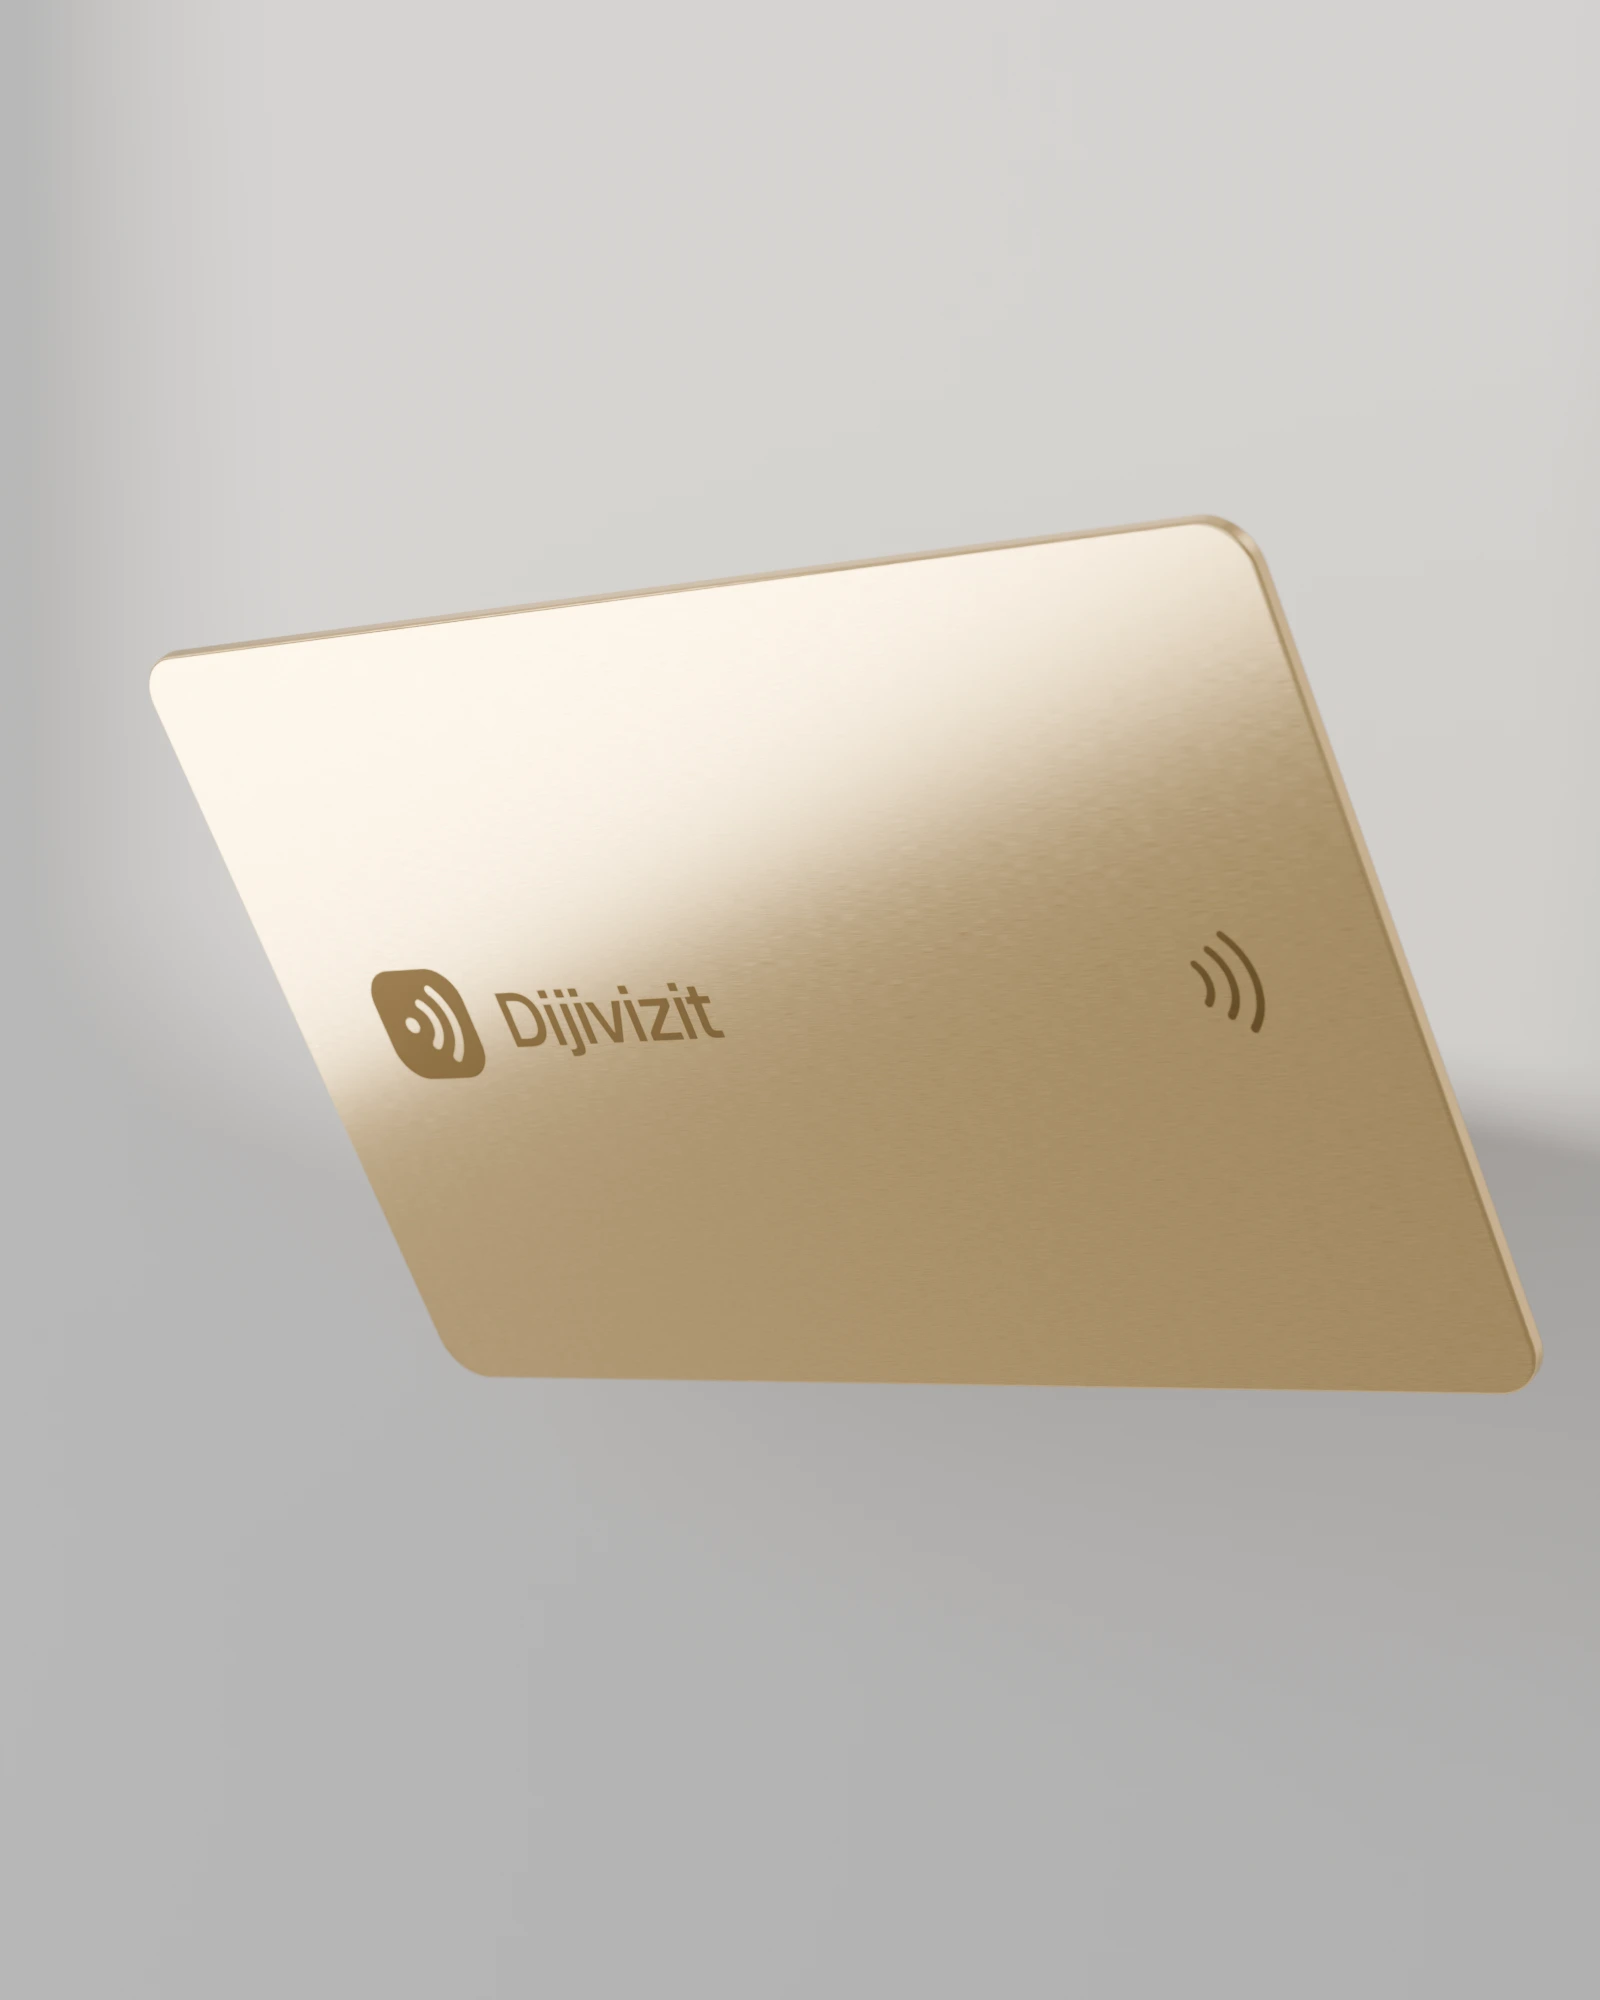
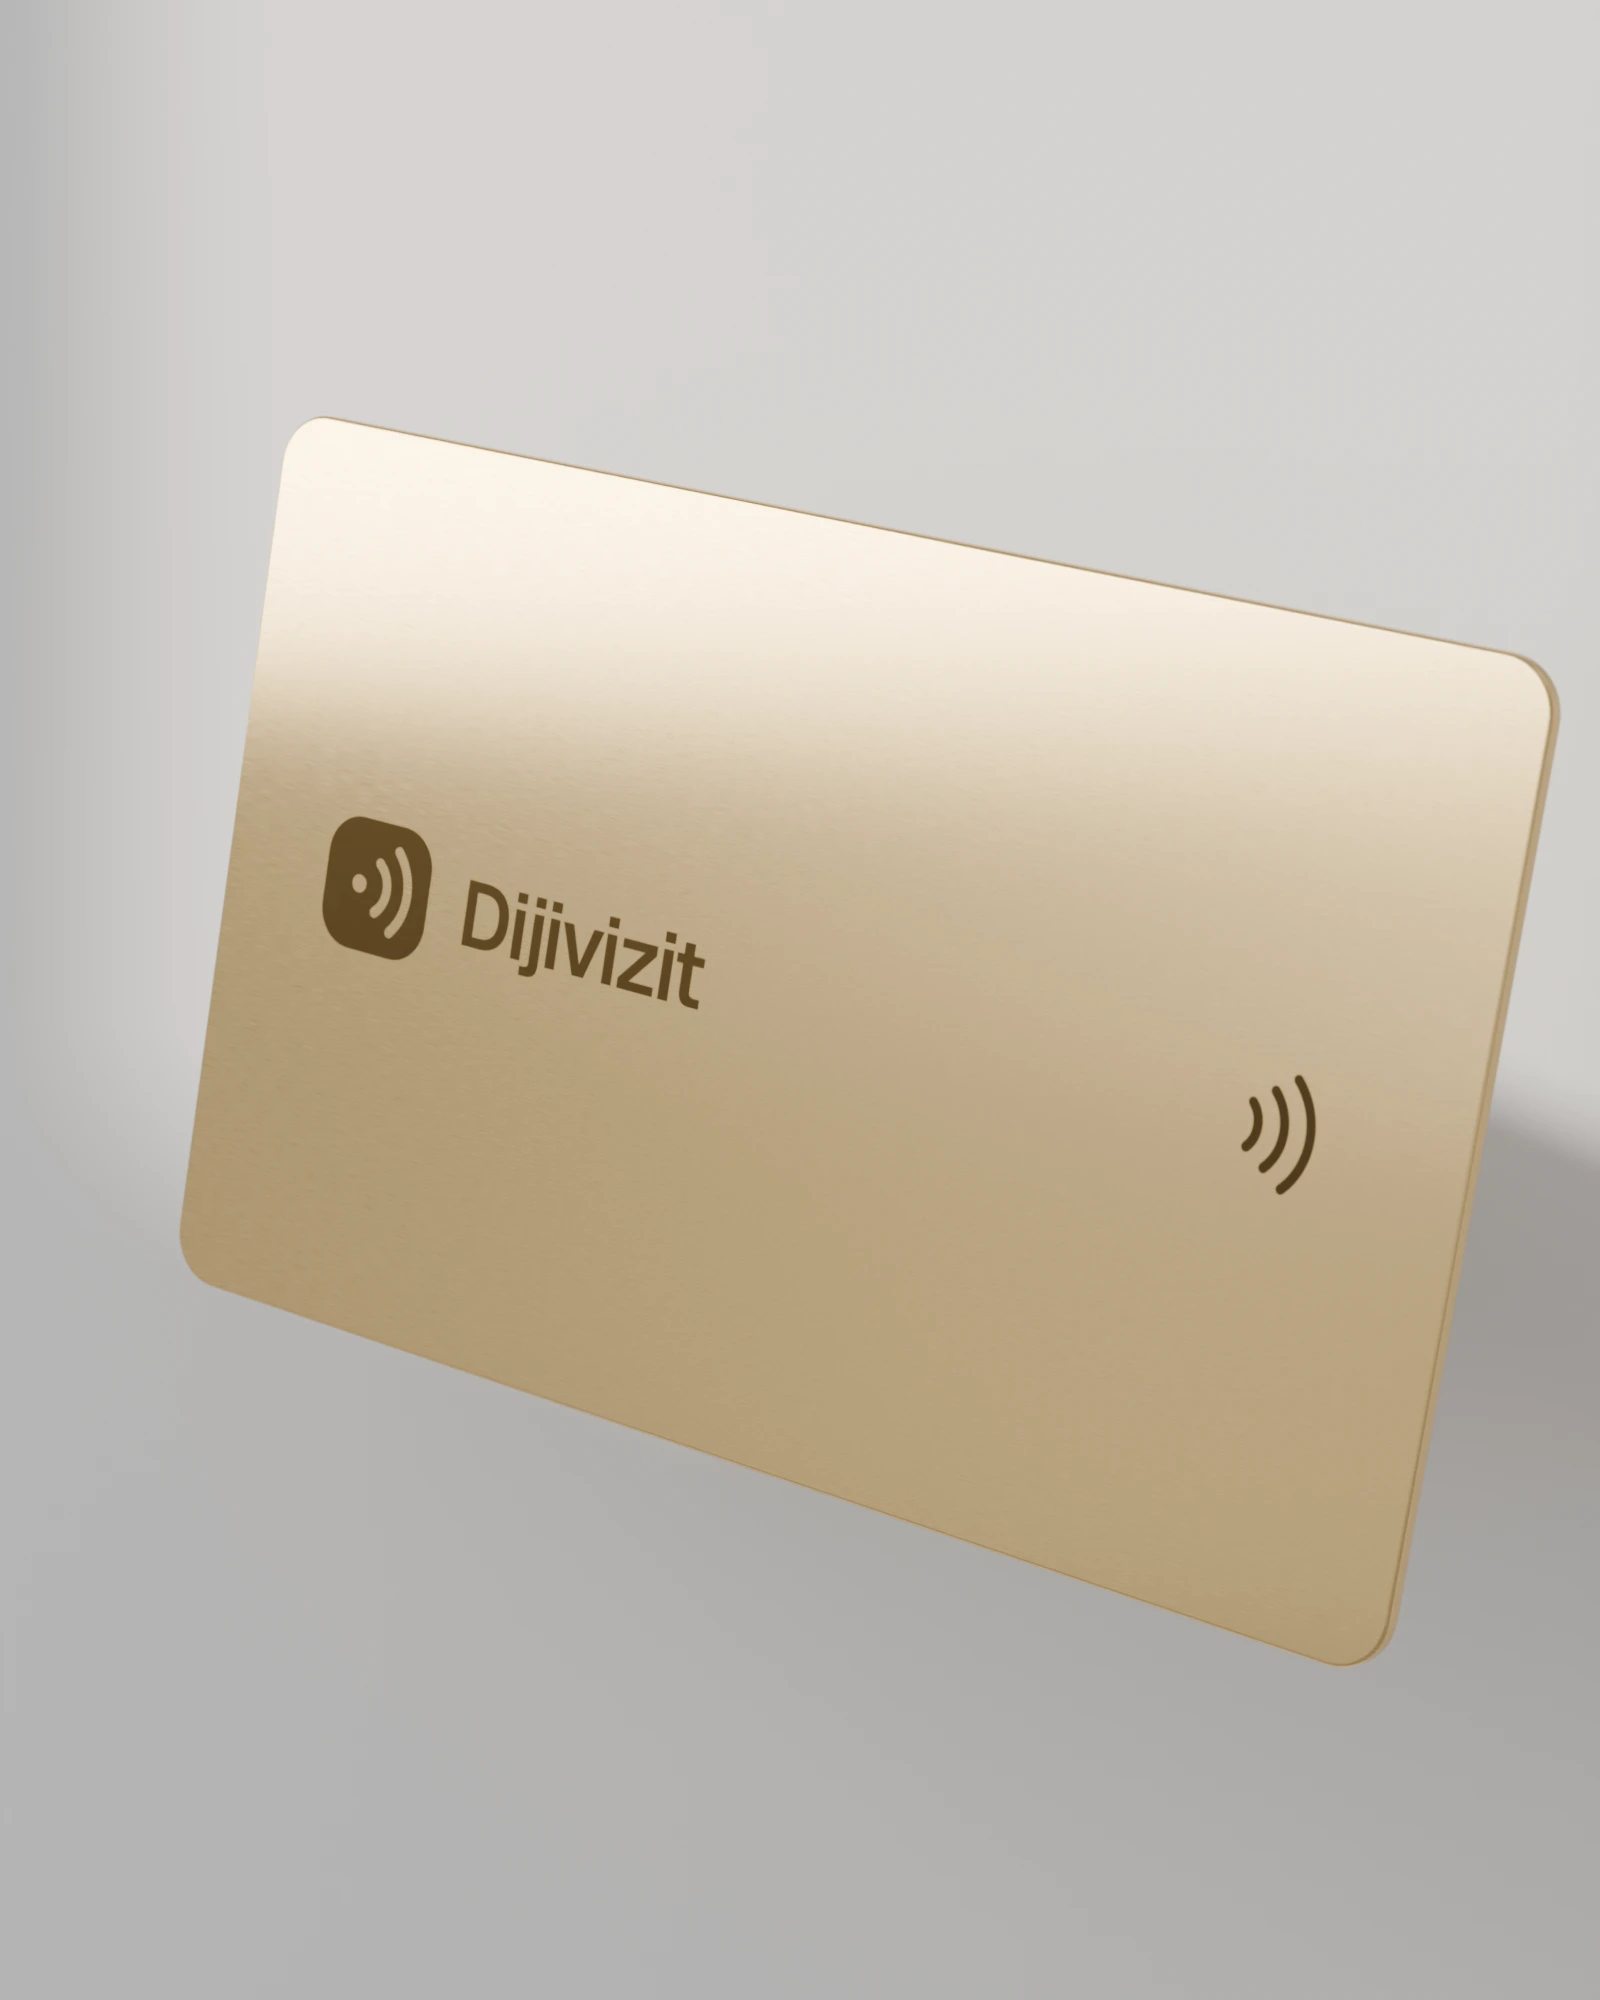
Product shots: upright, diagonal card instead of leaning back
The card now stands upright, turned three-quarters and rolled into a diagonal,
with the camera at eye level; all five product shots are re-rendered.

Changed region(s): [[0.0938, 0.186, 1.0, 0.837]]

diff --git a/render/scene.py b/render/scene.py
@@ -554,18 +554,18 @@ def animate(card, phone, cam, target, mix_profile, mix_saved, portrait):
 
 
 def product_shot(scene, finish):
-    """Replace the animation with one static close-up of the card: tilted back
-    and turned three-quarters so the face, the edge and the thickness read in
-    3D, filling most of a portrait frame."""
+    """Replace the animation with one static close-up of the card: standing
+    upright, turned three-quarters and rolled into a diagonal, seen from eye
+    level so the face, the edge and the thickness read in 3D."""
     card = bpy.data.objects["Card"]
     cam = scene.camera
     target = bpy.data.objects["Target"]
     for obj in (card, cam, target):
         obj.animation_data_clear()
     card.location = (0.0, 0.0, 0.0)
-    card.rotation_euler = tuple(math.radians(a) for a in (112, -9, -36))
+    card.rotation_euler = tuple(math.radians(a) for a in (92, 12, -30))
     target.location = (0.0, 0.0, 0.0)
-    cam.location = (0.2, -2.75, 0.5)
+    cam.location = (0.2, -2.65, 0.05)
     # Highlight: a softbox at the camera's mirror image over the card face,
     # nudged up so the reflection sweeps across the top of the card and the
     # brushed metal gets the bright-to-dark gradient real metal shows.
